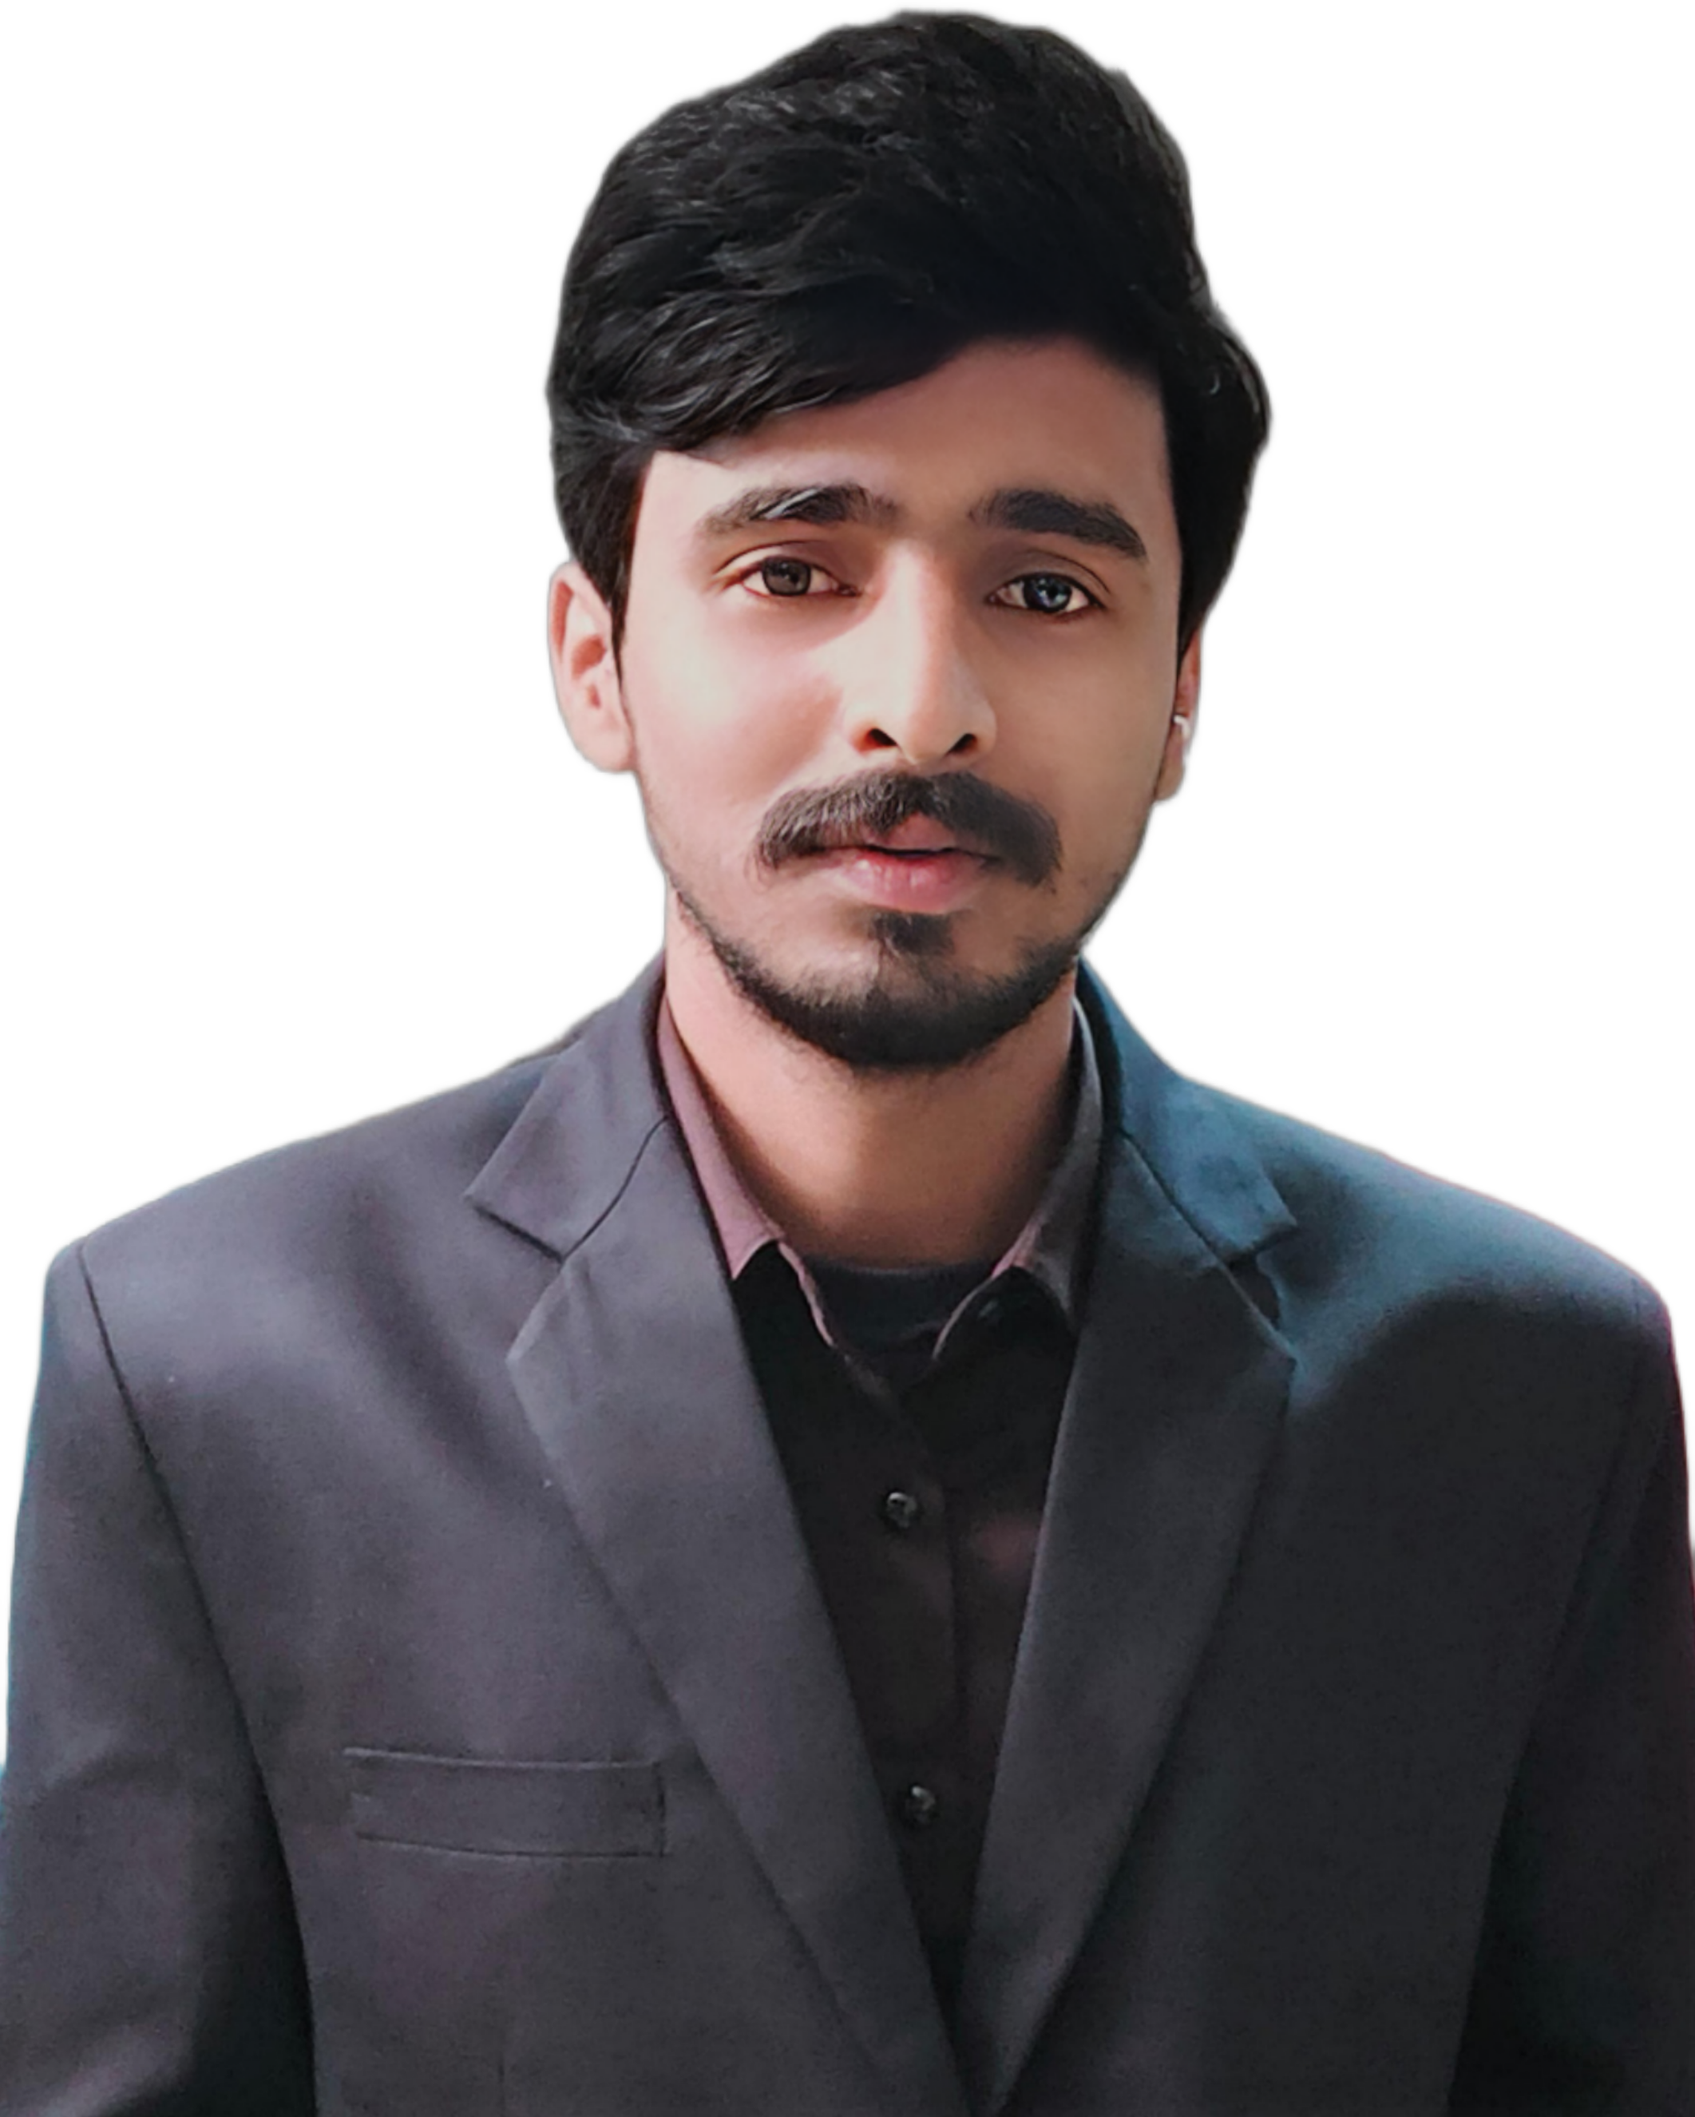
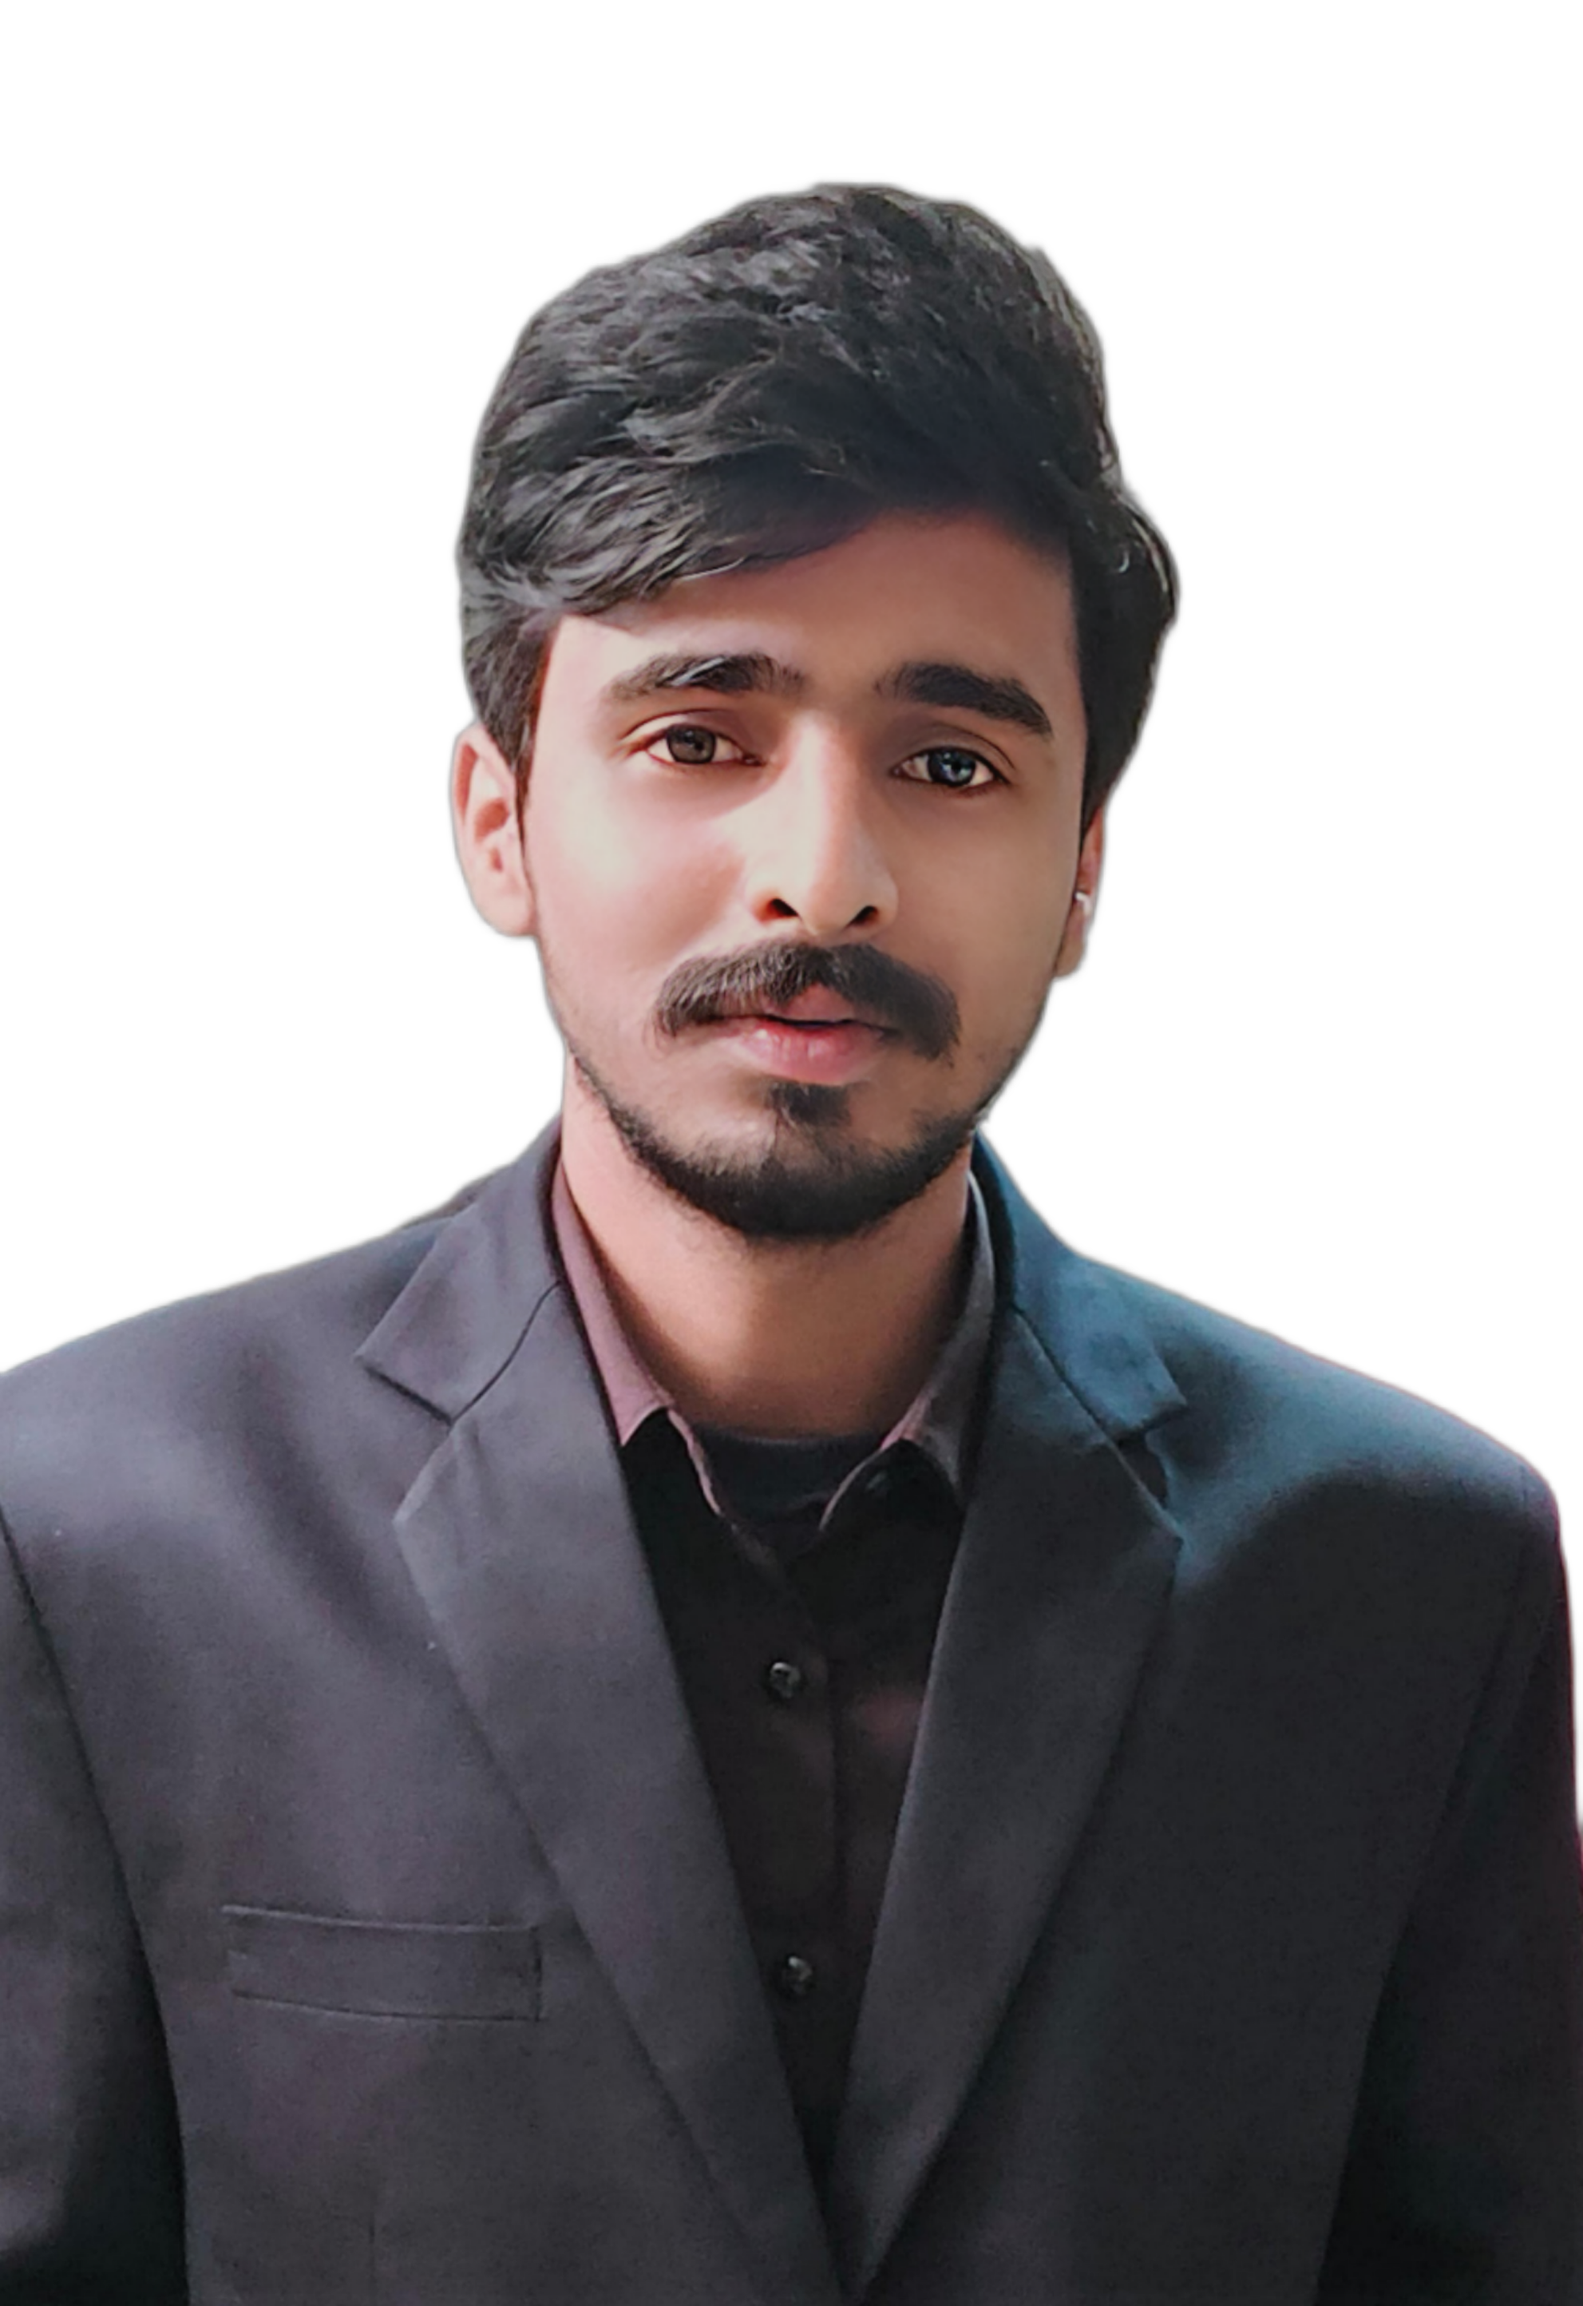
add image of directors and other members in home component

diff --git a/src/components/HomePhotoCard.jsx b/src/components/HomePhotoCard.jsx
@@ -1,15 +1,36 @@
-import React from "react";
-import f4 from '../assets/homePhoto/founder3.png'
+import React, { useState, useEffect } from "react";
+import f1 from '../assets/homePhoto/founder3.png';
+import f5 from '../assets/homePhoto/founder5.png';
+import f6 from '../assets/homePhoto/founder6.png';
+import HomePhotoCardContent from "./HomePhotoCardContent";
 
 function HomePhotoCard() {
+  const photos = [f1, f5, f6];
+  const names = ['Ankit Srivastva', 'Mr. Alok Srivastava', 'Lucky Arush'];
+  const designations = ['Founder of FunQrew', 'Honorary Patron', 'Creative Director'];
+
+  const [currentIndex, setCurrentIndex] = useState(0);
+
+  useEffect(() => {
+    const intervalId = setInterval(() => {
+      setCurrentIndex((prevIndex) => (prevIndex + 1) % photos.length);
+    }, 9500); 
+
+    return () => clearInterval(intervalId); 
+  }, [photos.length]);
+
   return (
-    <div class="card  ">
-        <img src={f4}  alt="founder photo" className='animate__animated animate__backInRight rounded-[20px]'/>
-  <div class="card__content">
-    <p class="card__title">Ankit Srivastva</p>
-    <p class="card__description"> Founder of FunQrew</p>
-  </div>
-</div>
+    <div>
+      {photos.map((photo, index) => (
+        <HomePhotoCardContent
+          key={index}
+          photo={photo}
+          name={names[index]}
+          designation={designations[index]}
+          isVisible={index === currentIndex}
+        />
+      ))}
+    </div>
   );
 }
 

diff --git a/src/components/textAnimation.jsx b/src/components/textAnimation.jsx
@@ -1,7 +1,7 @@
 import React, { useState, useEffect } from 'react';
 
 function TypeWriter() {
-  const words = ['Ankit Srivastva Founder of FunQrew', "Rising Entrepreneur and Influencer", "ROLBOL Community Involvement","BiggBoss Season 13 : Cleared three rounds for entry","President of the ROLBOL community of Gorakhpur chapter","Excellent actor and a talented comedian","Team management ability"];
+  const words = ['Ankit Srivastva Founder of FunQrew','Mr. Alok Srivastava Honorary Patron','Lucky Arush With 5 years of experience at Kuku FM', "Rising Entrepreneur and Influencer", "ROLBOL Community Involvement","BiggBoss Season 13 : Cleared three rounds for entry","President of the ROLBOL community of Gorakhpur chapter","Excellent actor and a talented comedian","Team management ability"];
   const [currentWordIndex, setCurrentWordIndex] = useState(0);
   const [currentText, setCurrentText] = useState('');
   const [isDeleting, setIsDeleting] = useState(false);

diff --git a/src/components/HomePhotoCardContent.jsx b/src/components/HomePhotoCardContent.jsx
@@ -1,0 +1,27 @@
+import React from 'react';
+import PropTypes from 'prop-types';
+
+export default function HomePhotoCardContent({ photo, name, designation, isVisible }) {
+  return (
+    <div className={`card ${isVisible ? 'visible' : 'hidden'} `}>
+      <div className='flex items-center justify-center'>
+      <img
+        src={photo}
+        alt="founder photo"
+        className='animate__animated animate__backInRight rounded-[20px] '
+      />
+      </div>
+      <div className="card__content">
+        <p className="card__title">{name}</p>
+        <p className="card__description">{designation}</p>
+      </div>
+    </div>
+  );
+}
+
+HomePhotoCardContent.propTypes = {
+  photo: PropTypes.string.isRequired,
+  name: PropTypes.string.isRequired,
+  designation: PropTypes.string.isRequired,
+  isVisible: PropTypes.bool.isRequired,
+};

diff --git a/src/index.css b/src/index.css
@@ -319,6 +319,16 @@
 
 
 
+/* Assuming you have a CSS file imported in your project */
+
+.hidden {
+  display: none;
+}
+
+.visible {
+  display: block;
+}
+
 
 
 
